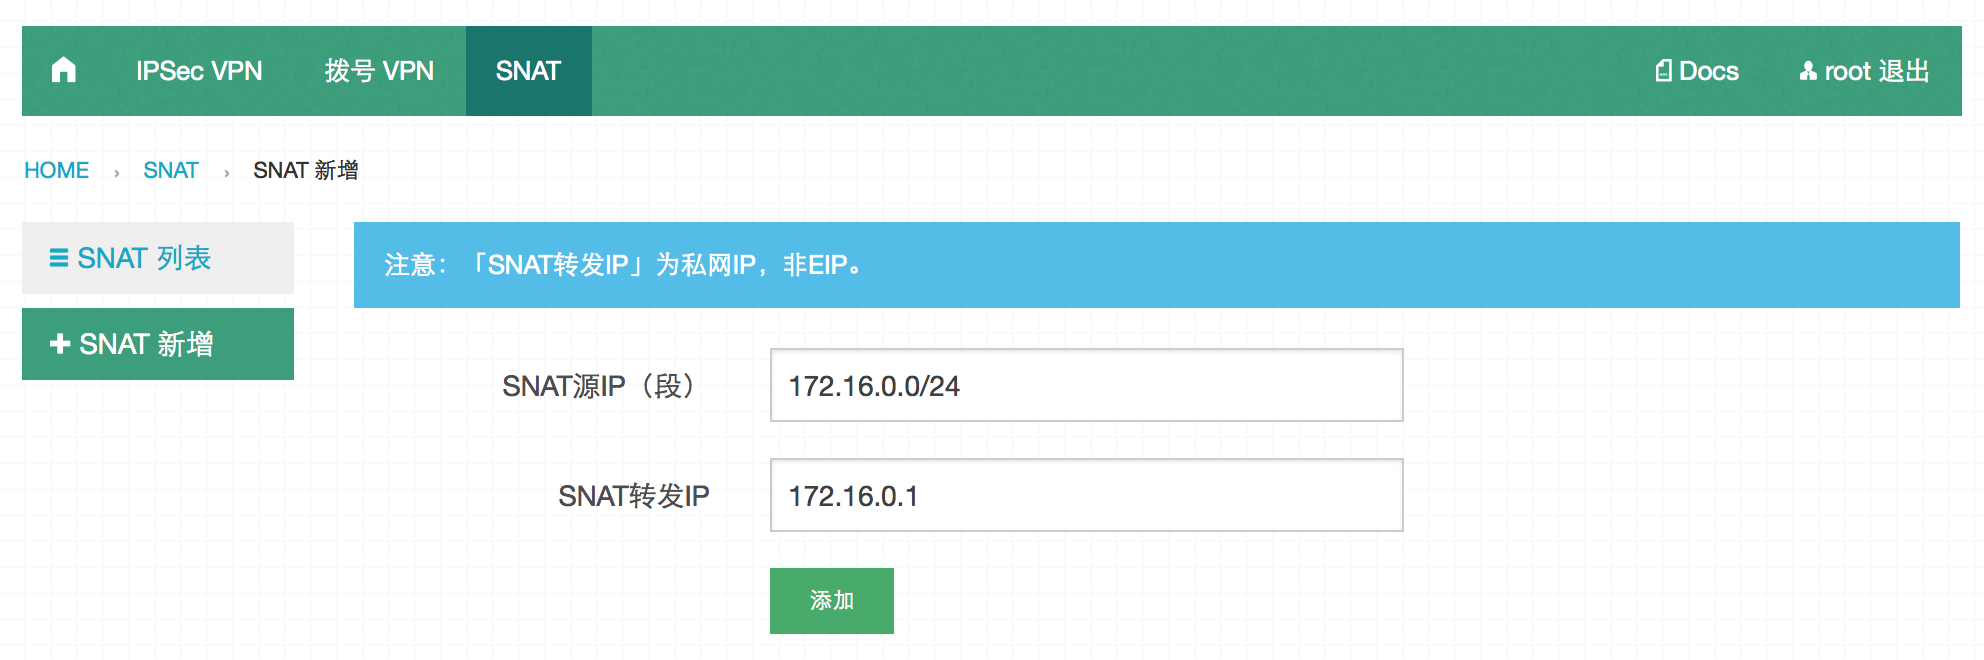
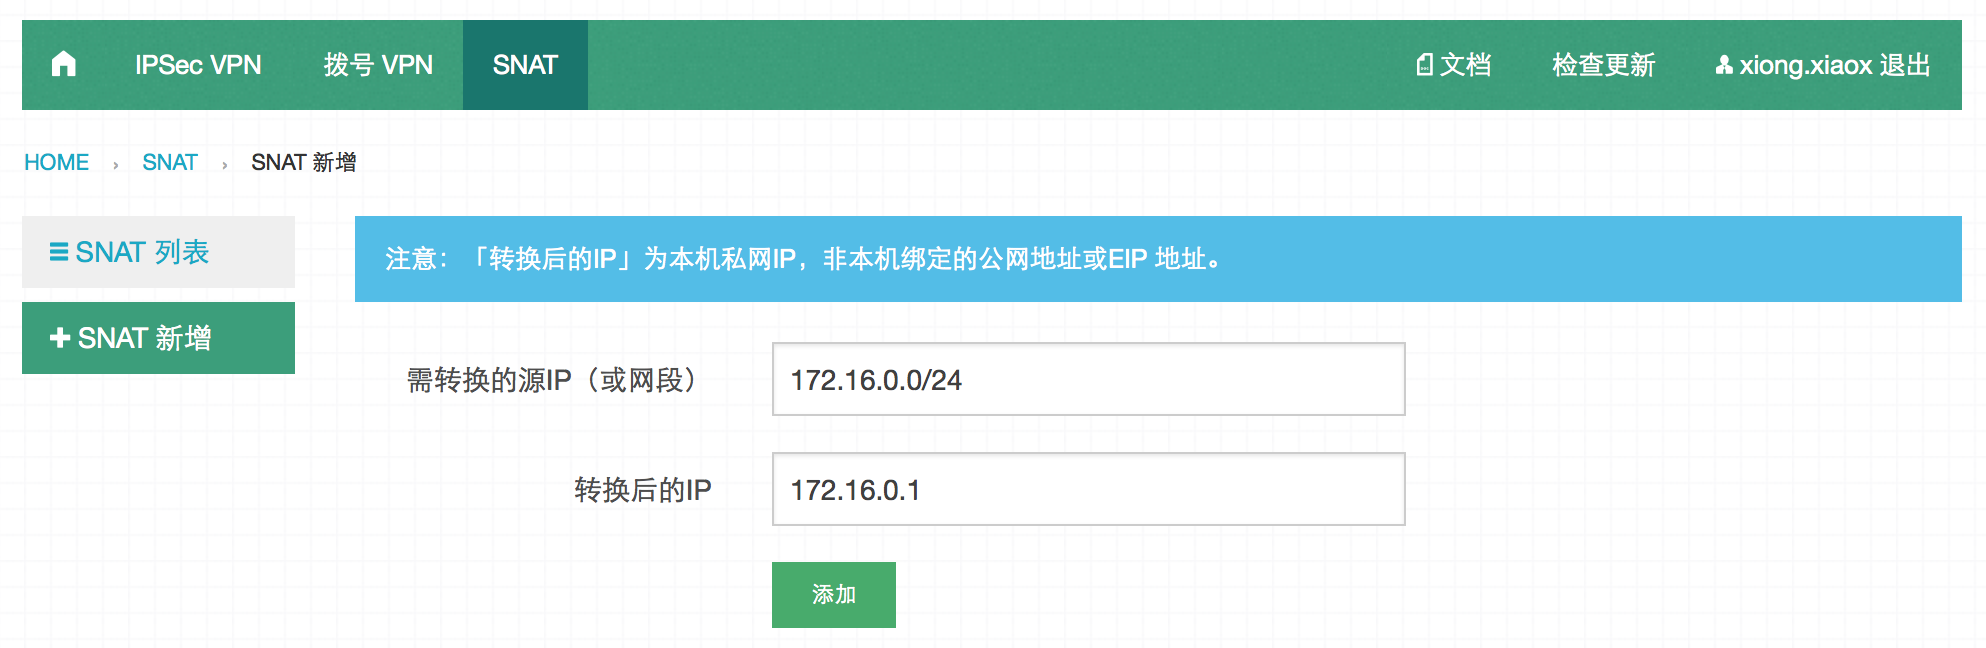
Update docs for v1.1.0

diff --git a/website/docs/templates/docs/dial.html b/website/docs/templates/docs/dial.html
@@ -17,6 +17,66 @@
           <div class="panel">
             <h3>拨号 VPN 使用指南</h3>
             <hr />
+            <h5>应用场景：</h5>
+            <ol>
+              <li>Classic 网络场景。跨账号、跨地域的云服务器之间内网互通。</li>
+              <li>VPC 网络场景。管理员接入VPC 进行私网访问、管理。</li>
+            </ol>
+
+            <h3>Classic 网络场景</h3>
+            <hr />
+            <img src="{{ url_for('docs.static', filename='img/dial_08.png') }}">
+            <p>如上图所示，用户在杭州、北京、青岛区域用不同的账号各买了1台ECS VM，现在想让这3台VM 之间进行内网通信，我们需要把这3台VM 拨入到同一个VPN 网络中，用VPN 分配的地址进行通信。<br />
+            本例：杭州的VM 选为VPN GateWay，北京和青岛的VM 拨入到杭州的VPN 中。使用VPN 分配的地址10.8.8.7、10.8.8.9 进行相互通信。</p>
+            <h5>第一、启动拨号VPN 服务</h5>
+            <hr />
+            <p>进入拨号VPN 的「VPN 服务管理」页面，确保GateWay VM启动了拨号VPN 服务。</p>
+            <img src="{{ url_for('docs.static', filename='img/dial_02.png') }}">
+            <ul>
+              <li>启动VPN 服务：仅启动本机的拨号VPN。</li>
+              <li>停止VPN 服务：停止本机的拨号VPN。已经连接上的隧道将全部断开。</li>
+              <li>配置下发&amp;重载：进行拨号VPN 「设置」时，该动作会自动进行。但某些情况下，如果你想重新生成VPN 服务端配置，可手动执行该操作。</li>
+            </ul>
+            <h5>第二、设置</h5>
+            <hr />
+            <img src="{{ url_for('docs.static', filename='img/dial_09.png') }}">
+            <ul>
+              <li>通信协议：可选"UDP"、"TCP"。注：每次修改保存后，请重新下载客户端配置文件。</li>
+              <li>虚拟IP 地址池：即VPN Server 分配给客户端的虚拟IP 地址池。本例为：10.8.8.0/24</li>
+              <li>允许client 间通信：本例子中，这里请选“是”。</li>
+              <li>允许单个账号同时在线：可选“是”或“否”。</li>
+              <li>子网网段：即允许拨号client 访问的子网。本例不需要client 访问子网，填写VPN GateWay VM 私网IP 即可：10.171.112.120/32。</li>
+            </ul>
+            <h5>第四、添加拨号VPN 账号</h5>
+            <hr />
+            <p>点击「新增账号」按钮，即可新增账号：</p>
+            <img src="{{ url_for('docs.static', filename='img/dial_05.png') }}">
+            <ul>
+              <li>账号名：只可包含如下字符：数字、字母、下划线。</li>
+              <li>密码：只可包含如下字符：数字、字母、下划线。</li>
+            </ul>
+            <h5>第五、配置客户端</h5>
+            <hr />
+            <p>点击「客户端下载」按钮，可以下载VPN 客户端和相应的配置文件。</p>
+            <img src="{{ url_for('docs.static', filename='img/dial_07.png') }}">
+            <ul>
+              <li>修改配置文件：将配置文件中的「remote IP」字段修改为GateWay VM 的公网地址。</li>
+              <li>Windows 平台：安装完客户端后，将配置文件client.ovpn和ca.crt 文件放到安装目录下的config 文件夹中。然后启动openvpn-gui.exe，根据提示进行连接。</li>
+              <li>Linux 平台：在配置文件client.conf 和ca.crt 的目录下执行命令：openvpn client.conf，根据提示进行连接。</li>
+            </ul>
+            <h5>第六、查看账号列表</h5>
+            <hr />
+            <p>点击「账号列表」按钮，可以查看已经添加的账号列表。如果该账号已经拨入VPN，将看到更明细的信息：</p>
+            <img src="{{ url_for('docs.static', filename='img/dial_10.png') }}">
+            <ul>
+              <li>状态：由于VPN 的keepalive 机制，会有1分钟左右的延时。</li>
+            </ul>
+            <h5>第七、使用VPN IP 进行通信</h5>
+            <hr />
+            <p>现在，即可使用VPN 分配的地址10.8.8.7、10.8.8.9 进行相互通信了。</p>
+
+            <h3>VPC 网络场景</h3>
+            <hr />
             <img src="{{ url_for('docs.static', filename='img/dial_01.png') }}">
             <p>如上图所示，管理员想接入VPC2 的私网内，以便管理维护VM1和VM2。其中，VPC2 中有一台使用VPN/SNAT 镜像安装的GateWay VM，并绑定了EIP。<br />
             本例：管理员从公网通过VPN 隧道访问VPC2 的192.168.0.3 。</p>
@@ -33,7 +93,10 @@
             <hr />
             <img src="{{ url_for('docs.static', filename='img/dial_03.png') }}">
             <ul>
+              <li>通信协议：可选"UDP"、"TCP"。注：每次修改保存后，请重新下载客户端配置文件。</li>
               <li>虚拟IP 地址池：即VPN Server 分配给客户端的虚拟IP 地址池。</li>
+              <li>允许client 间通信：可“是”或“否”。</li>
+              <li>允许单个账号同时在线：可选“是”或“否”。</li>
               <li>子网网段：即我们VPC2 的子网192.168.0.0/24。</li>
             </ul>
             <h5>第三、配置SNAT</h5>
@@ -47,17 +110,9 @@
             <img src="{{ url_for('docs.static', filename='img/dial_05.png') }}">
             <ul>
               <li>账号名：只可包含如下字符：数字、字母、下划线。</li>
-              <li>密码：只可包含如下字符：数字、字母、下划线。密码以明文方式保存和显示，以让系统管理员可随时查看和修改。</li>
+              <li>密码：只可包含如下字符：数字、字母、下划线。</li>
             </ul>
-            <h5>第五、查看账号列表</h5>
-            <hr />
-            <p>点击「账号列表」按钮，可以查看已经添加的账号列表。如果该账号已经拨入VPN，将看到更明细的信息：</p>
-            <img src="{{ url_for('docs.static', filename='img/dial_06.png') }}">
-            <ul>
-              <li>状态：由于VPN 的keepalive 机制，会有1分钟左右的延时。</li>
-            </ul>
-
-            <h5>第六、配置客户端</h5>
+            <h5>第五、配置客户端</h5>
             <hr />
             <p>点击「客户端下载」按钮，可以下载VPN 客户端和相应的配置文件。</p>
             <img src="{{ url_for('docs.static', filename='img/dial_07.png') }}">
@@ -65,6 +120,13 @@
               <li>修改配置文件：将配置文件中的「remote IP」字段修改为GateWay VM 的EIP 地址。</li>
               <li>Windows 平台：安装完客户端后，将配置文件client.ovpn和ca.crt 文件放到安装目录下的config 文件夹中。然后启动openvpn-gui.exe，根据提示进行连接。</li>
               <li>Linux 平台：在配置文件client.conf 和ca.crt 的目录下执行命令：openvpn client.conf，根据提示进行连接。</li>
+            </ul>
+            <h5>第六、查看账号列表</h5>
+            <hr />
+            <p>点击「账号列表」按钮，可以查看已经添加的账号列表。如果该账号已经拨入VPN，将看到更明细的信息：</p>
+            <img src="{{ url_for('docs.static', filename='img/dial_06.png') }}">
+            <ul>
+              <li>状态：由于VPN 的keepalive 机制，会有1分钟左右的延时。</li>
             </ul>
           </div>
         </div>

diff --git a/website/docs/templates/docs/guide.html b/website/docs/templates/docs/guide.html
@@ -20,9 +20,15 @@
             <p>本程序提供了VPN、SNAT 基础服务。</p>
             <h5>主要提供以下几点功能：</h5>
             <ol>
-              <li>IPSec Site-to-Site 功能。可快速的帮助你将两个不同的VPC 私网以IPSec Site-to-Site 的方式连接起来。</li>
-              <li>拨号VPN 功能。可让你通过拨号方式，接入VPC 私网，进行日常维护管理。</li>
-              <li>SNAT 功能。可方便的设置Source NAT，以让VPC 私网内的VM 通过Gateway VM 访问外网。</li>
+              <li>IPSec Site-to-Site 功能。可快速的帮助你将两个不同的ECS 私网以IPSec Site-to-Site 的方式连接起来。</li>
+              <li>拨号VPN 功能。可让你通过拨号方式，接入ECS 私网，进行日常维护管理。</li>
+              <li>SNAT 功能。可方便的设置Source NAT，以让ECS 私网内的VM 通过Gateway VM 访问外网。</li>
+            </ol>
+            <h5>典型的应用场景包括：</h5>
+            <ol>
+              <li>VPC 用户通过VPN 将云上环境和用户侧网络打通(Site-to-Site)。</li>
+              <li>同一用户名下多个VPC(包括同Region/不同Region)之间通过VPN 打通(Site-to-Site)。</li>
+              <li>跨账号、跨区域的云服务器之间内网互通(拨号VPN。可将不同账号下的云服务器拨入同一个FlexGW VPN 内，然后用VPN 分配的私网地址进行互通)。</li>
             </ol>
 
             <h3>软件组成</h3>
@@ -40,15 +46,15 @@
 
             <h3>程序说明</h3>
             <hr />
-            <h5>ECS VPN（即本程序）</h5>
+            <h5>FlexGW（即本程序）</h5>
             <ul>
               <li>目录：/usr/local/flexgw</li>
               <li>数据库文件：/usr/local/flexgw/instance/website.db</li>
-              <li>日志文件：/usr/local/flexgw/logs/website.log</li>
               <li>启动脚本：/etc/init.d/flexgw 或/usr/local/flexgw/website_console</li>
-              <li>实用脚本：/usr/local/flexgw/scripts</li>
+              <li>日志文件目录：/usr/local/flexgw/logs</li>
+              <li>实用脚本目录：/usr/local/flexgw/scripts</li>
             </ul>
-            <p>「数据库文件」保存了我们所有的VPN 配置，建议定期备份。如果数据库损坏，可通过「实用脚本」目录下的initdb.py 脚本对数据库进行初始化，初始化之后所有的配置将清空。</p>
+            <p>「数据库文件」保存了我们所有的VPN 配置，建议定期备份。如果数据库损坏，可通过「实用脚本目录」下的initdb.py 脚本对数据库进行初始化，初始化之后所有的配置将清空。</p>
             <h5>Strongswan</h5>
             <ul>
               <li>目录：/etc/strongswan</li>

diff --git a/website/docs/templates/docs/snat.html b/website/docs/templates/docs/snat.html
@@ -26,8 +26,8 @@
             <p>进入SNAT 的「SNAT 新增」页面：</p>
             <img src="{{ url_for('docs.static', filename='img/snat_02.png') }}">
             <ul>
-              <li>SNAT源IP（段）：为VPC1 中需要访问公网的私网网段。本例中为：172.16.0.0/24</li>
-              <li>SNAT转发IP：为VPC1 中GateWay VM 的私网IP，而非EIP。本例中为：172.16.0.1</li>
+              <li>需转换的源IP（或网段）：为VPC1 中需要访问公网的私网网段。本例中为：172.16.0.0/24</li>
+              <li>转换后的IP：为VPC1 中GateWay VM 的私网IP，而非EIP。本例中为：172.16.0.1</li>
             </ul>
 
             <h5>第二、查看SNAT 列表</h5>
@@ -35,8 +35,8 @@
             <p>新增SNAT 条目之后，会自动跳转到「SNAT 列表」页面，即可看到：</p>
             <img src="{{ url_for('docs.static', filename='img/snat_03.png') }}">
             <ul>
-              <li>转发网络：为VPC1 中需要访问公网的私网网段。本例中为：172.16.0.0/24</li>
-              <li>转发后IP：为VPC1 中GateWay VM 的私网IP，而非EIP。本例中为：172.16.0.1</li>
+              <li>需转换的源IP（或网段）：为VPC1 中需要访问公网的私网网段。本例中为：172.16.0.0/24</li>
+              <li>转换后的IP：为VPC1 中GateWay VM 的私网IP，而非EIP。本例中为：172.16.0.1</li>
               <li>删除：点击「删除」按钮，即可删除该SNAT 条目，且立即生效。</li>
             </ul>
           </div>

diff --git a/website/docs/templates/docs/changelog.html b/website/docs/templates/docs/changelog.html
@@ -17,7 +17,14 @@
           <div class="panel">
             <h3>ChangeLog</h3>
             <hr />
-            <h5>1.0.0</h5>
+            <h5>1.1.0 － 2014.10.11</h5>
+            <ul>
+              <li>拨号VPN：查看、修改账号时，密码默认隐藏，支持手工显示。</li>
+              <li>拨号VPN：可配置支持客户端间相互通信、单账号同时多个客户端在线。</li>
+              <li>拨号VPN：可配置通信协议为"UDP"或"TCP"。</li>
+              <li>更新文档描述，增加Classic 网络环境应用场景事例。</li>
+            </ul>
+            <h5>1.0.0 － 2014.09.05</h5>
             <ul>
               <li>首次发布，支持IPSec VPN、拨号VPN、SNAT 功能。</li>
             </ul>

diff --git a/website/docs/templates/docs/ipsec.html b/website/docs/templates/docs/ipsec.html
@@ -15,7 +15,7 @@
       <div class="row">
         <div class="large-12 columns">
           <div class="panel">
-            <h3>IPSec Site-to-Site VPN 使用指南</h3>
+            <h3>IPSec Site-to-Site VPN 使用指南（VPC 网络场景）</h3>
             <hr />
             <img src="{{ url_for('docs.static', filename='img/ipsec_01.png') }}">
             <p>如上图所示，VPC1私网为：172.16.0.0/24，VPC2私网为：192.168.0.0/24。其中，两个VPC 中各有一台使用VPN/SNAT镜像安装的GateWay VM，并绑定了EIP。<br />
